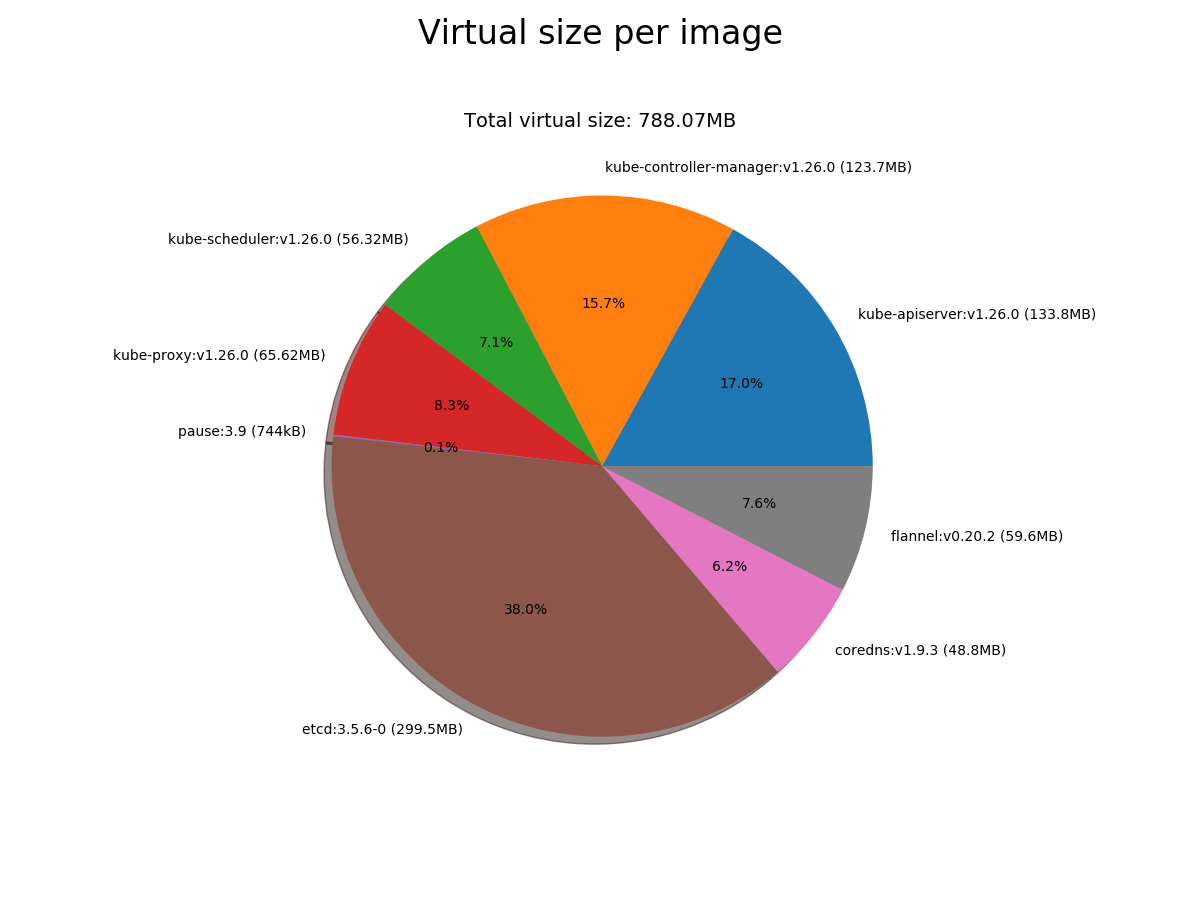
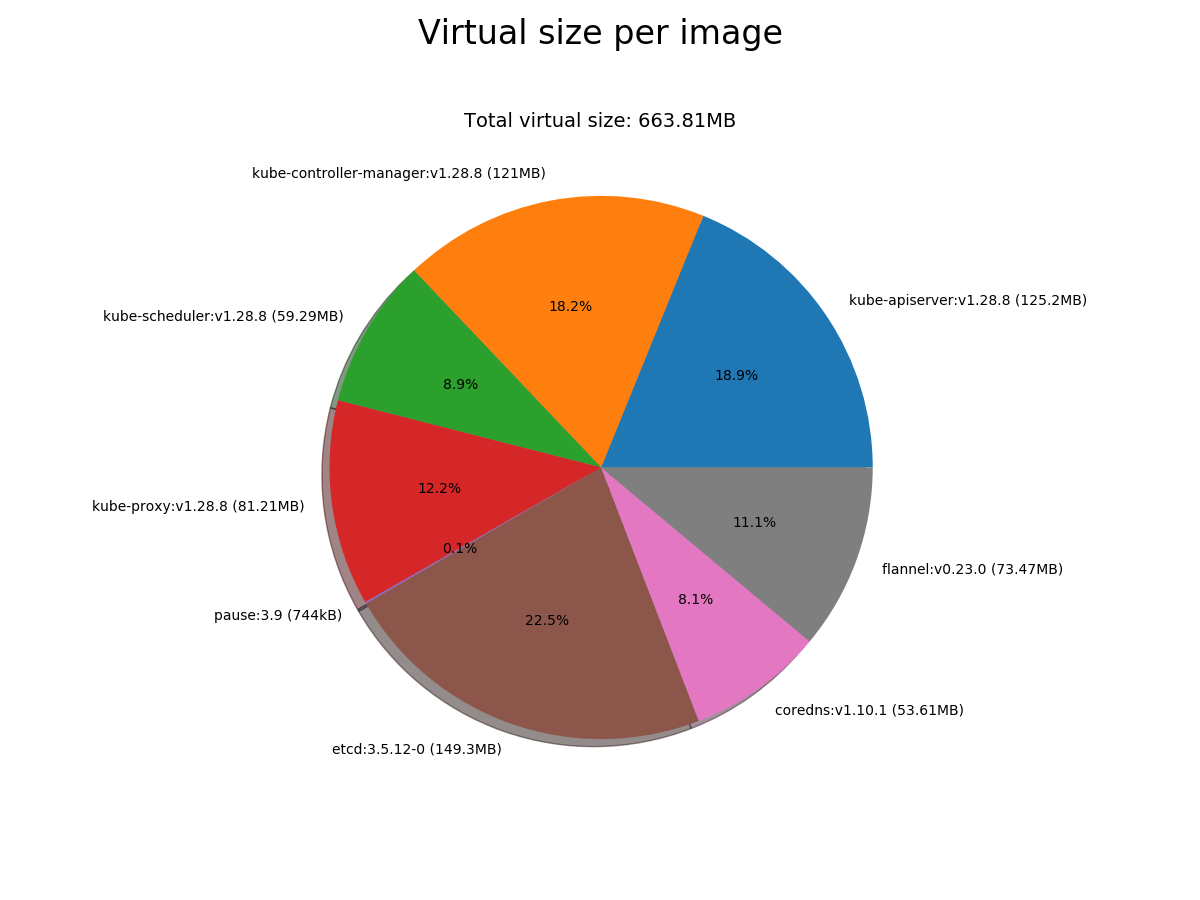
Update information for kubernetes 1.28.8

diff --git a/README.md b/README.md
@@ -63,19 +63,19 @@ Required images:
 
 ```console
 $ kubeadm config images list
-registry.k8s.io/kube-apiserver:v1.26.0
-registry.k8s.io/kube-controller-manager:v1.26.0
-registry.k8s.io/kube-scheduler:v1.26.0
-registry.k8s.io/kube-proxy:v1.26.0
+registry.k8s.io/kube-apiserver:v1.28.8
+registry.k8s.io/kube-controller-manager:v1.28.8
+registry.k8s.io/kube-scheduler:v1.28.8
+registry.k8s.io/kube-proxy:v1.28.8
 registry.k8s.io/pause:3.9
-registry.k8s.io/etcd:3.5.6-0
-registry.k8s.io/coredns/coredns:v1.9.3
+registry.k8s.io/etcd:3.5.12-0
+registry.k8s.io/coredns/coredns:v1.10.1
 ```
 
 Additional images:
 
 ```
-docker.io/flannelcni/flannel:v0.20.2
+docker.io/flannel/flannel:v0.23.0
 ```
 
 ![image size](image-size.png)
@@ -83,26 +83,26 @@ docker.io/flannelcni/flannel:v0.20.2
 `docker pull` (gzip):
 
 ```
-33M	images/registry.k8s.io/kube-apiserver_v1.26.0
-31M	images/registry.k8s.io/kube-controller-manager_v1.26.0
-17M	images/registry.k8s.io/kube-scheduler_v1.26.0
-21M	images/registry.k8s.io/kube-proxy_v1.26.0
+33M	images/registry.k8s.io/kube-apiserver_v1.28.8
+32M	images/registry.k8s.io/kube-controller-manager_v1.28.8
+18M	images/registry.k8s.io/kube-scheduler_v1.28.8
+27M	images/registry.k8s.io/kube-proxy_v1.28.8
 304K	images/registry.k8s.io/pause_3.9
-97M	images/registry.k8s.io/etcd_3.5.6-0
-14M	images/registry.k8s.io/coredns/coredns_v1.9.3
-20M	images/docker.io/flannelcni/flannel_v0.20.2
-230M	total
+54M	images/registry.k8s.io/etcd_3.5.12-0
+16M	images/registry.k8s.io/coredns/coredns_v1.10.1
+27M	images/docker.io/flannel/flannel_v0.23.0
+203M	total
 ```
 
 `docker save | xz`:
 
 ```
-159M	images.txz
+139M	images.txz
 ```
 
 ```
 Strms  Blocks   Compressed Uncompressed  Ratio  Check   Filename
-    1      48    158,2 MiB    745,9 MiB  0,212  CRC32   images.txz
+    1      41    138,8 MiB    630,0 MiB  0,220  CRC32   images.txz
 ```
 
 Device layout:
